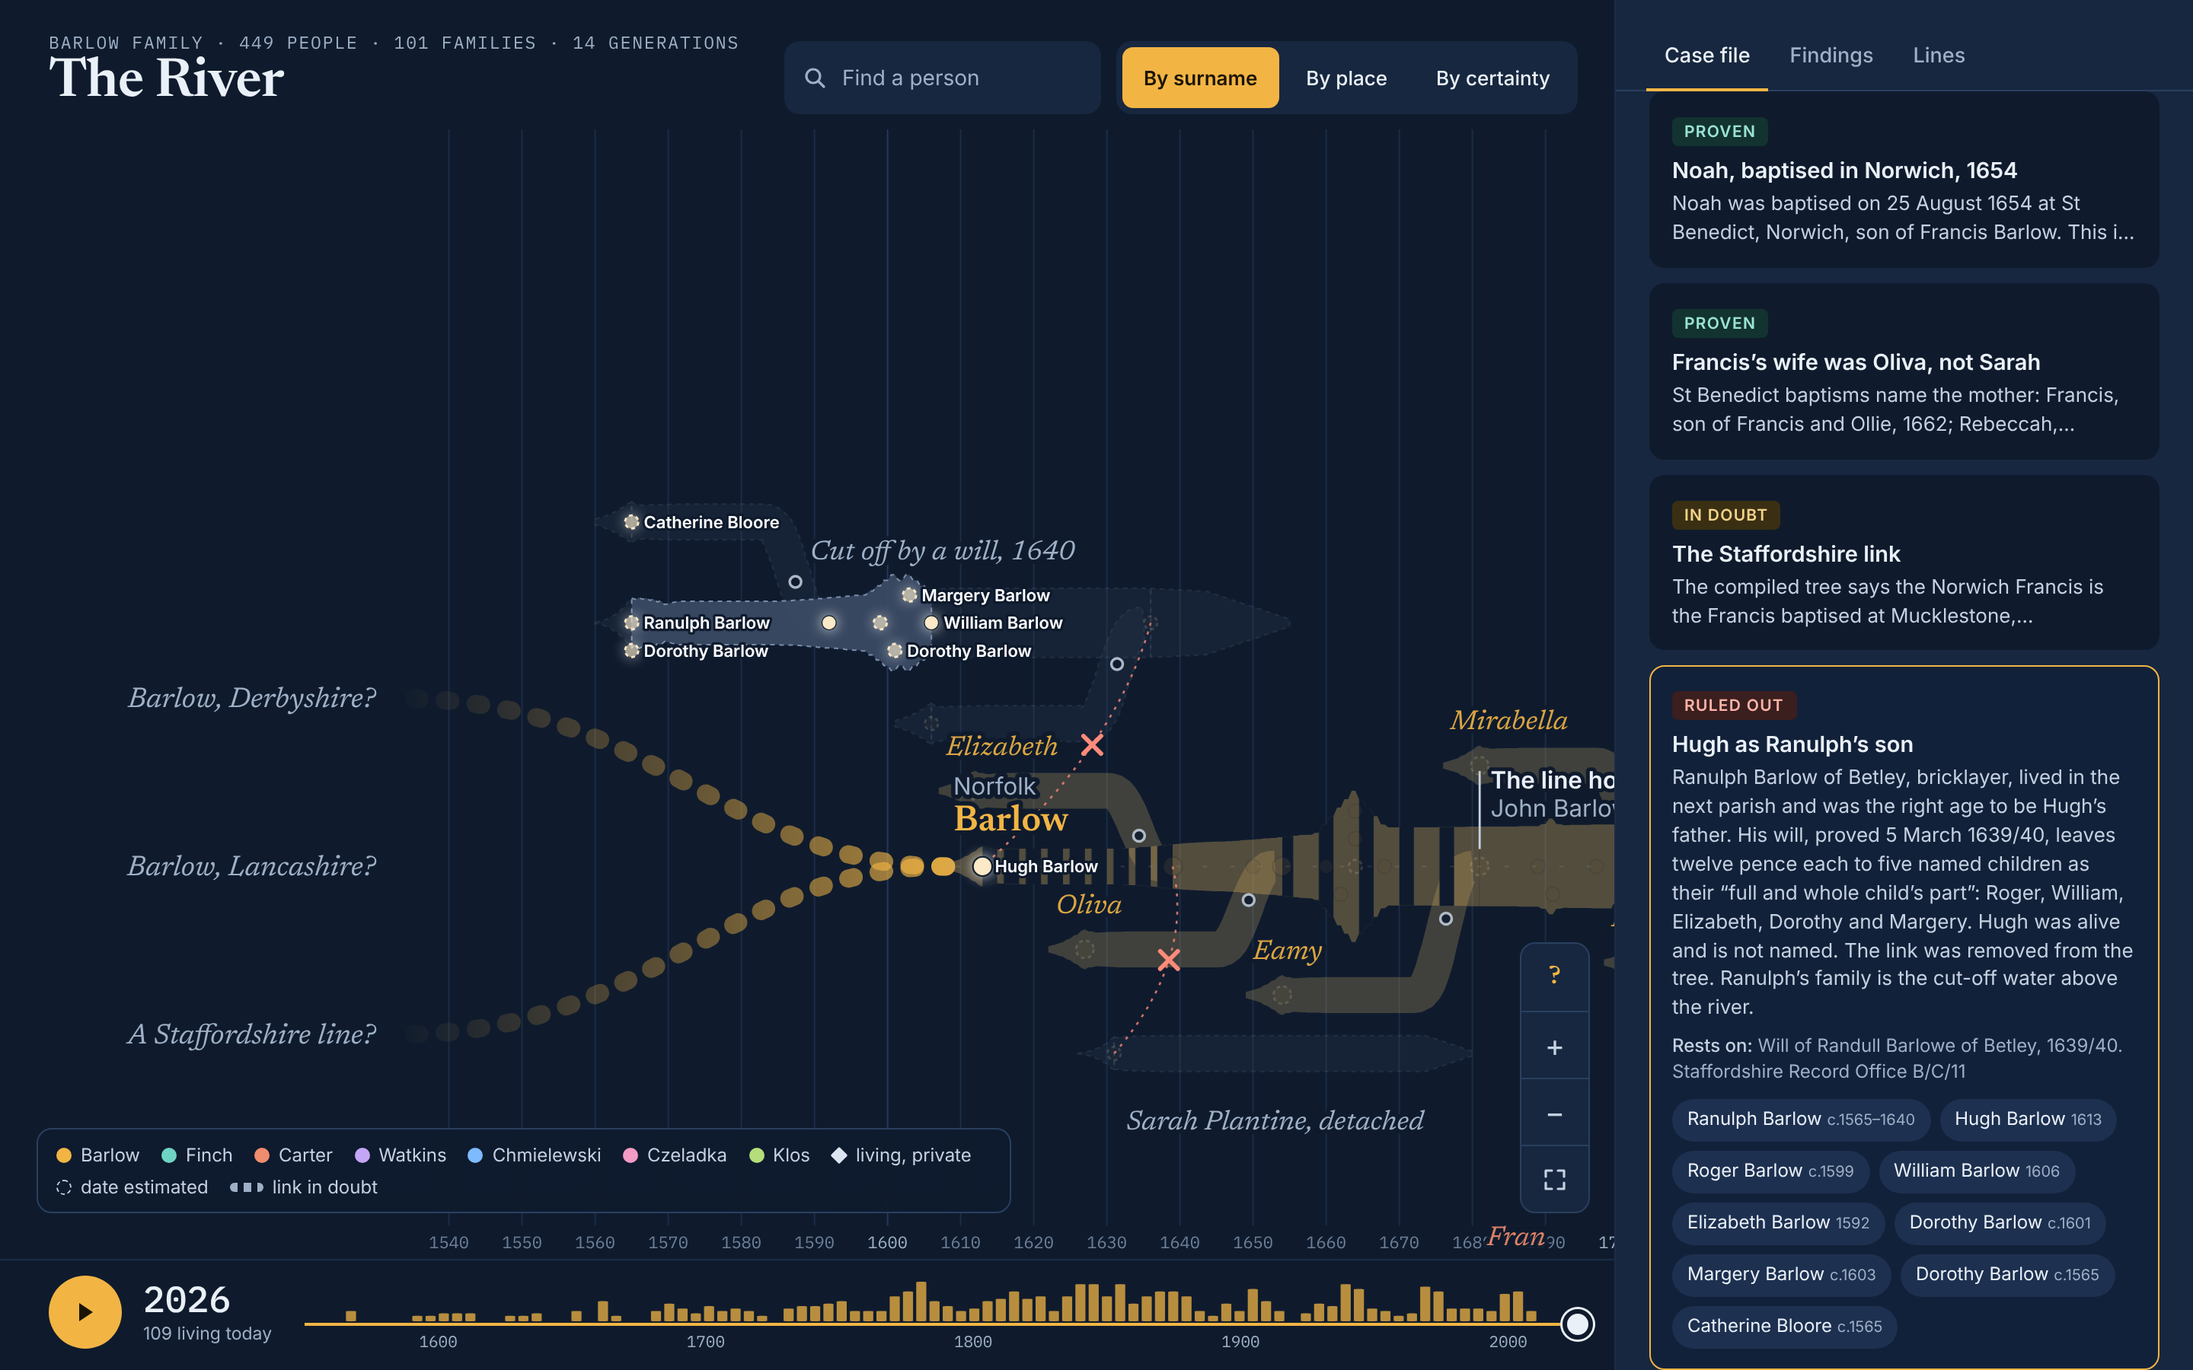
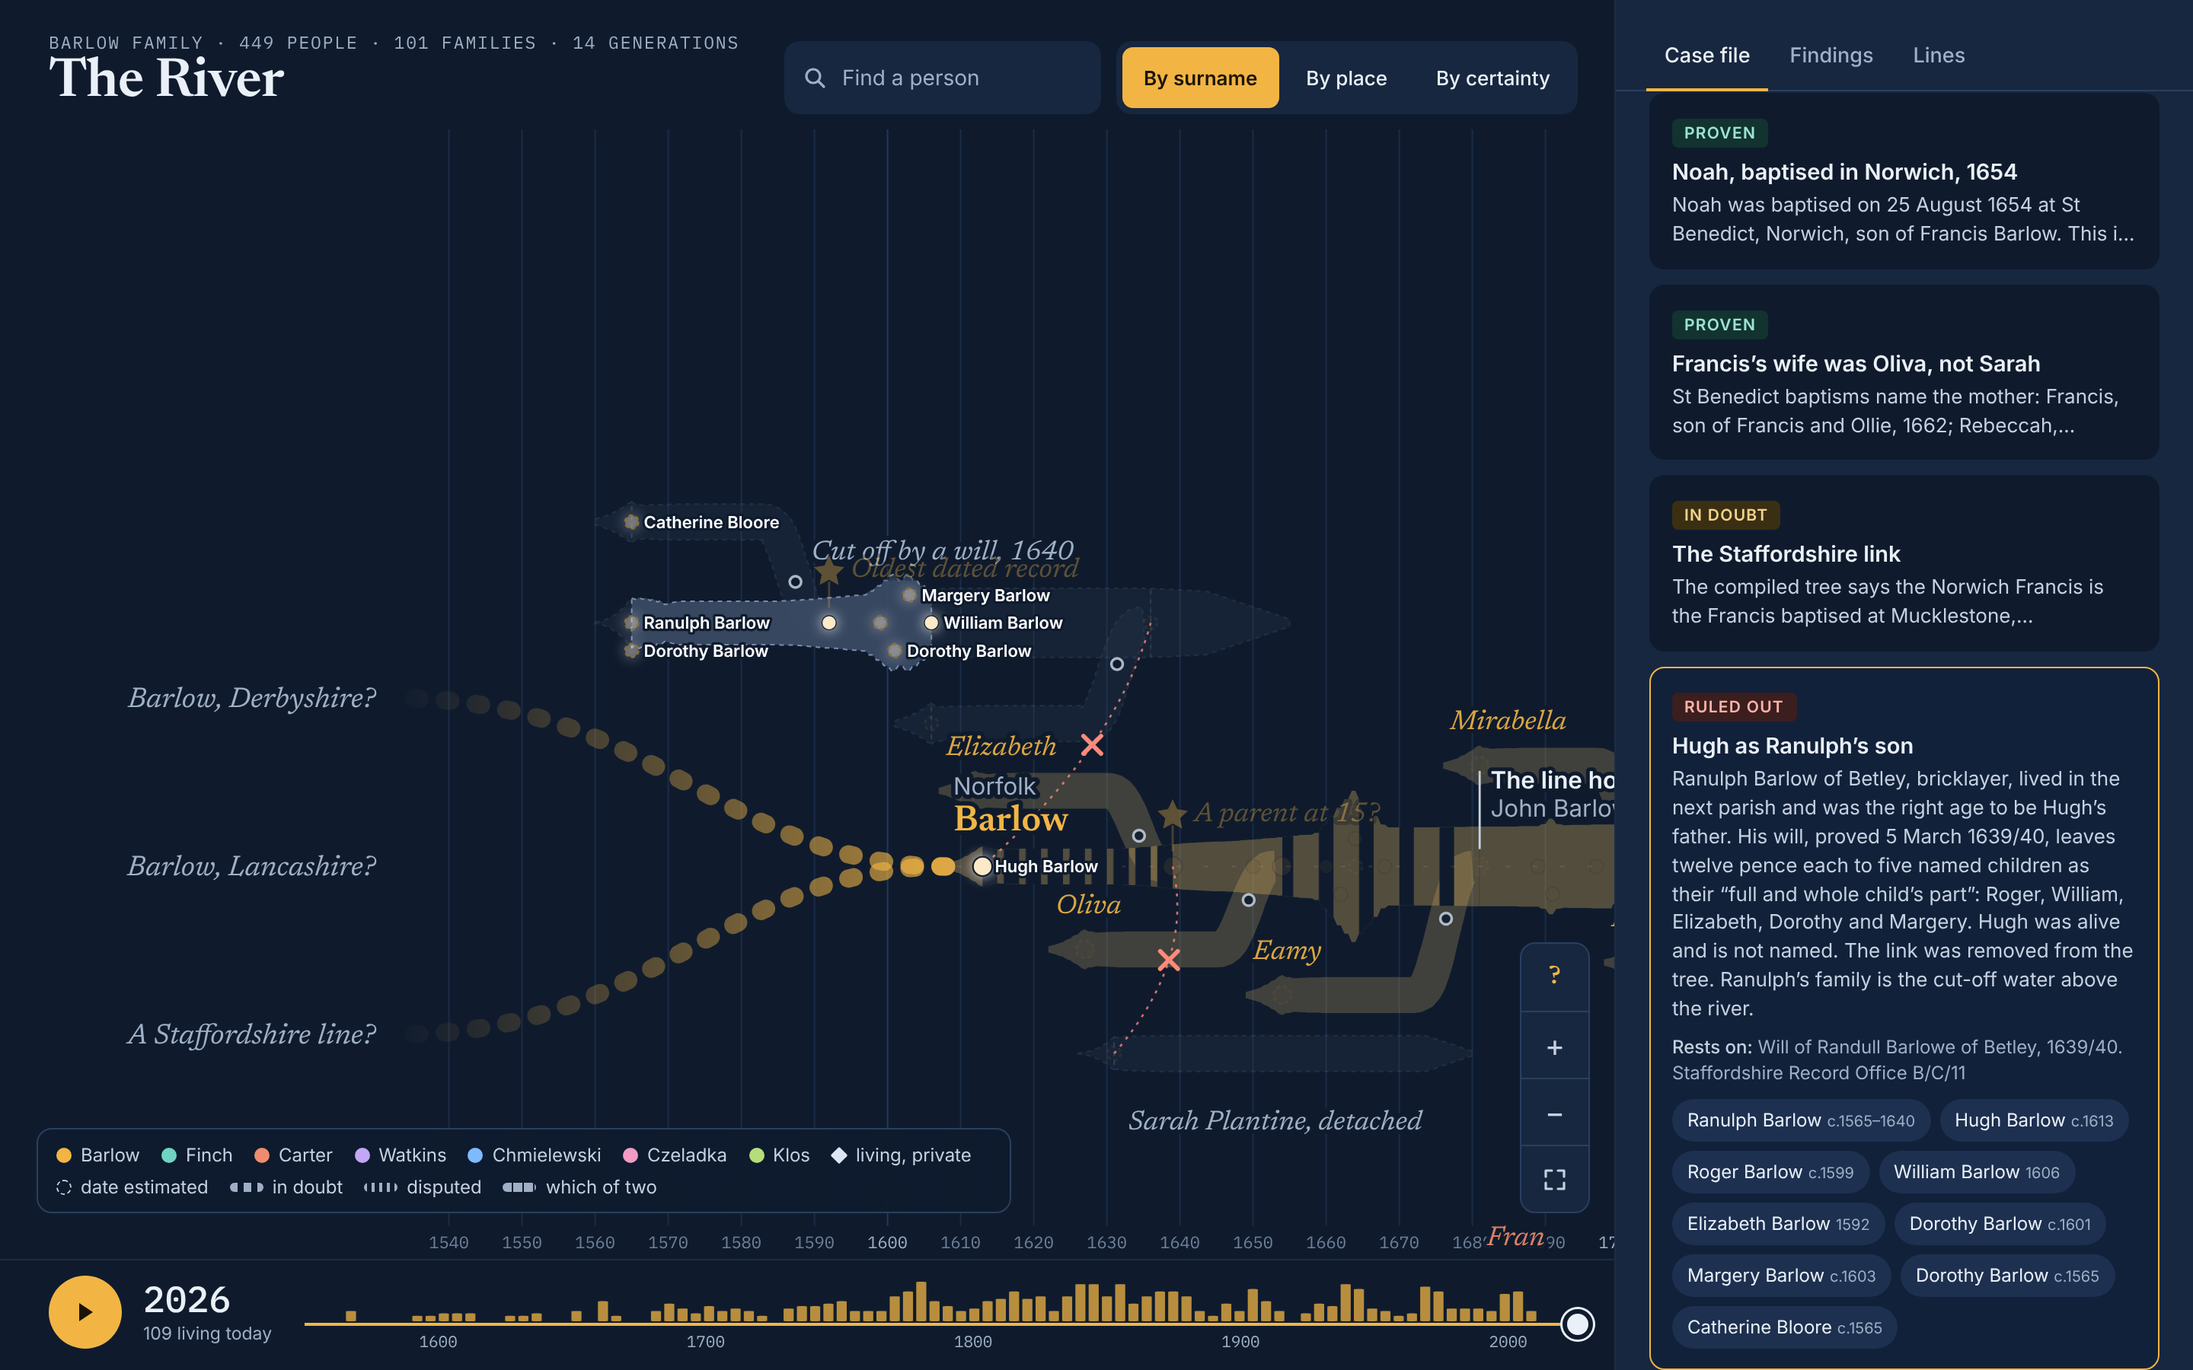
Final Council round: star place-bound findings on the river
Also keeps all four Council reports, stops a running camera move from
overriding an instant fit, and makes the browser test always stop its
own server.

Claude-Session: https://claude.ai/code/session_01LrNCnbRM2Q9T9wn5hEJQnR

diff --git a/src/main.ts b/src/main.ts
@@ -102,6 +102,7 @@ async function boot() {
     onHeadwater: () => { if (!state.composing) openCard('origin'); },
     onOxbow: (s) => { if (state.composing) return; const card = cardForStream(s); if (card) { state.card = null; openCard(card.id); } else focusIds(s.members); },
     onStep: stepPerson,
+    onFinding: (id) => { if (state.composing) return; stopWalk(); state.lead = null; state.tab = 'leads'; openLead(id); openSheet(true); document.querySelector('.card.on')?.scrollIntoView({ block: 'nearest' }); },
     onConfluence: (fid) => { if (state.composing) return; stopWalk(); openRecord({ kind: 'family', id: fid }); },
   });
 
@@ -118,6 +119,12 @@ async function boot() {
   }
   const head = proofHeadPerson();
   if (head) river.markProofHead(head.id, `The line holds to here\n${head.name}, ${head.b?.est ? 'c. ' : ''}${head.b?.y}`);
+
+  // findings that belong to one place are marked on the river itself
+  const MARKS: Record<string, string> = { 'fact:first-nz': 'First born in New Zealand', 'fact:earliest': 'Oldest dated record', 'fact:largest': 'The biggest family', 'fact:longest': 'The longest life' };
+  for (const f of data.facts) if (MARKS[f.id]) river.markFinding(f.people[0], f.id, MARKS[f.id]);
+  const odd = data.leads.find((l) => l.kind === 'young-parent');
+  if (odd) river.markFinding(odd.people[0], odd.id, 'A parent at ' + (odd.title.match(/\d+$/)?.[0] ?? 'an impossible age') + '?');
 
   bindChrome();
   buildSpark();
@@ -981,6 +988,7 @@ function showHelp() {
     <p><b>Diamonds are the living.</b> ${c.living} of the ${c.people} people in the tree are alive. They have no name, date or place here.</p>
     <p><b>Broken water is doubt.</b> Solid water is a link nobody questions. Whether it cites a source is what the certainty lens shows. Dashed water is a link the tree itself calls a hypothesis. Dotted water is disputed. Finely scored water is a doubt that does not break the line. The flag marks how far up the Barlow stream the evidence runs without a break.</p>
     <p><b>The lake is a dead end.</b> A family once thought to be ancestors, cut off when a will ruled them out. The three dotted springs at the far left are guesses at where the name came from.</p>
+    <p><b>Stars are findings.</b> A star above a light marks something the tree shows when you count: the first of the family born in New Zealand, the biggest family, the oldest record. Tap one to read it.</p>
     <p><b>Some dates are guesses.</b> ${data.people.filter((p) => !p.living && p.d?.est).length} people have no recorded death. Their light goes out seventy years after birth. Their record says “not recorded”.</p>
     <h3>Things to try</h3>
     <p>Tap any light for the person’s record, then “Follow the water”. “Related to…” tells you how any two people are connected. Switch the lens to see where people lived, or how well each link is sourced. Open a card in the case file. Zoom in to see names.</p>

diff --git a/src/river.ts b/src/river.ts
@@ -43,6 +43,7 @@ export interface RiverEvents {
   onHeadwater: () => void;
   onOxbow: (s: Stream) => void;
   onConfluence: (famId: string) => void;
+  onFinding: (leadId: string) => void;
   /** keyboard: step to the next or previous person */
   onStep: (dir: number) => void;
 }
@@ -300,6 +301,22 @@ export class River {
     this.streamLabels.push({ el: lg, x: cx, y: cy + (above ? -hw - 8 : hw + 16), w: label.length * 6.4, minor: true, kind: 'ox' });
   }
 
+  /** A small marker above a person for a finding that belongs to one place on the river. */
+  markFinding(personId: string, leadId: string, label: string) {
+    const sp = this.L.spots.get(personId);
+    if (!sp) return;
+    const g = el('g', { class: 'finding', transform: `translate(${f1(sp.x)} ${f1(sp.y)})`, 'data-find': leadId });
+    this.world.insertBefore(g, this.world.querySelector('.people'));
+    const inner = el('g', { class: 'ls' }, g);
+    el('path', { d: 'M0 -7V-19', class: 'fstem' }, inner);
+    el('circle', { cx: 0, cy: -24, r: 11, class: 'hit' }, inner);
+    el('path', { d: 'M0 -31L2.1 -26.4L7 -25.6L3.4 -22.2L4.4 -17.4L0 -19.8L-4.4 -17.4L-3.4 -22.2L-7 -25.6L-2.1 -26.4Z', class: 'fstar' }, inner);
+    const t = el('text', { class: 'ftext', x: 10, y: -21 }, inner);
+    t.textContent = label;
+    g.addEventListener('click', (e) => { e.stopPropagation(); this.ev.onFinding(leadId); });
+    this.labelEls.push({ el: g, year: sp.year });
+  }
+
   /** A flag on the trunk where unbroken evidence ends. */
   markProofHead(id: string, text: string) {
     const sp = this.L.spots.get(id);
@@ -489,7 +506,7 @@ export class River {
     const v = this.fitView();
     this.fitK = v.k;
     this.follow = this.narrow;
-    if (animate) this.flyTo(v.k, v.tx, v.ty); else { this.k = v.k; this.tx = v.tx; this.ty = v.ty; this.apply(); }
+    if (animate) this.flyTo(v.k, v.tx, v.ty); else { cancelAnimationFrame(this.anim); this.k = v.k; this.tx = v.tx; this.ty = v.ty; this.apply(); }
   }
   get isFit() { return Math.abs(this.k - this.fitK) < 0.002 || this.autoCam; }
   zoomBy(f: number, cx = (this.w - this.inset.right) / 2, cy = (this.h - this.inset.bottom) / 2) {
@@ -735,7 +752,9 @@ export class River {
         const conf = nearConf(p, 8);
         this.ev.onHover(null, 0, 0);
         const who = pick(p, g, e.pointerType === 'mouse' ? 14 : 20);
-        if (conf.fam && conf.dist < dot.dist) this.ev.onConfluence(conf.fam);
+        const mark = hit?.closest?.('.finding') as SVGGElement | null;
+        if (mark) this.ev.onFinding(mark.dataset.find!);
+        else if (conf.fam && conf.dist < dot.dist) this.ev.onConfluence(conf.fam);
         else if (who) this.ev.onSelect(who);
         else {
           const other = hit?.closest?.('.conf') ?? hit?.closest?.('.oxbow-mark') ?? hit?.closest?.('.slabel') ?? hit?.closest?.('.headwaters') ?? hit?.closest?.('.stream');

diff --git a/src/style.css b/src/style.css
@@ -132,6 +132,15 @@ body.kbd #river:focus { outline: 2px solid var(--amber); outline-offset: -2px; }
 .oxbow-mark:hover .oxlabel text { fill: #FFB4A8; }
 .severed { fill: none; stroke: #FF8A7A; stroke-width: 1.3; stroke-dasharray: 2 4; vector-effect: non-scaling-stroke; opacity: .8; }
 .severed-x { stroke: #FF8A7A; stroke-width: 2; stroke-linecap: round; fill: none; }
+.finding { cursor: pointer; transition: opacity .5s; }
+.finding.future { opacity: 0; pointer-events: none; }
+.fstem { stroke: var(--amber); stroke-width: 1; opacity: .7; }
+.fstar { fill: var(--amber); stroke: var(--bg); stroke-width: 1.2; paint-order: stroke; }
+.finding:hover .fstar { fill: #fff; }
+.ftext { font: italic 400 12.5px var(--serif); fill: var(--amber); paint-order: stroke; stroke: var(--bg); stroke-width: 3.5px; stroke-linejoin: round; display: none; }
+.zoom-mid .ftext, .finding:hover .ftext { display: block; }
+.zoom-far .finding { display: none; }
+.world.focus .finding { opacity: .35; }
 .proofhead { pointer-events: none; transition: opacity .5s; }
 .flagpole { stroke: var(--ink-2); stroke-width: 1; }
 .flagtext { font: 600 11px var(--sans); fill: var(--ink); paint-order: stroke; stroke: var(--bg); stroke-width: 3.5px; stroke-linejoin: round; }

diff --git a/.campaign/council-report.md b/.campaign/council-report.md
@@ -5,43 +5,44 @@ council-type: standalone
 
 # Council Report
 
-Third round, on the iterated build. Earlier rounds: `council-report-plan.md` (before the build) and `council-report-post-build.md`.
+Fourth and final round. Earlier rounds: `council-report-plan.md`, `council-report-post-build.md`, `council-report-round-3.md`.
 
 ## Animal Perspectives
 
 ### Bear — Vision & Direction
-- All five changes from the post-build review are in and working: pull-back camera, findings, reading guide, one-command verify with CI, reports kept.
-- The pull-back moved Dynamic, the brief's weak score, from 3 to 5 in the outside reviewer's hands.
-- Novel is a 4, not the 5 given last round. The model is new; the parts around it are familiar.
+- The build shows time and doubt, and now also answers what a relative asks: who was this, how am I connected, how sure are we. "What rests on this link" is the brief's idea in one sentence on the link it concerns.
+- Life in sentences lifted the thin records. Interesting 5. Novel 5.
 
 ### Cat — Risk & Scope
-- The case text now separates "not in doubt" from "proven" and counts the trunk ancestors with no source. An outside finding the Council missed.
-- Last round's 33 was generous: it was given to a build with a dead Edit button and a lost year line. Both fixed, both now checked in the browser test.
-- Not settled by any test here: photos against the real image host, and whether the visible shape of the tree is private enough. Both are the owner's.
-- Nothing blocks calling this done.
+- Surprising is a 4: most surprises sit in a tab; only one comes to you on the river.
+- "Very polished: yes, narrowly." Left unfixed: a record on a landscape phone leaves a sliver of river; people ahead of the year cannot be tapped.
+- Privacy scanned clean in three separate passes. The birth-order leak relative to a living sibling was closed.
+- A decision, not a defect: named, recently deceased, undated people drawn as alive until last year.
 
 ### Owl — Process & Structure
-- The review loop ran in full, twice. Browser checks rose from 33 to 46 as defects were fixed.
-- `src/main.ts` should be split before the next feature.
+- The requested loop ran in full, then three more rounds. Browser checks rose from 33 to 55, one per defect fixed.
+- New logic went into `src/model/kin.ts` with tests. `src/main.ts` should be split before the next feature.
+- Publishing runs only by hand. Correct.
 
 ### Puppy — Opportunities & Momentum
-- The New Zealand caption lands during play.
-- Cheap win left: findings that light many people should name the first few.
+- The pulse now travels on the trunk. Delightful 5.
+- Cheap answer to Cat: put place-bound findings on the river as markers.
 
 ### Rabbit — Resources & Stakeholders
-- The guide's claims were checked against the drawing by an outside tester. Every person is reachable by keyboard.
-- Owner still to do: hosting decision, and one look at a photo on a real connection.
+- The phone gets the full thing. Real photos load.
+- "Open in Iris" links point at the owner's test host. Owner's call.
 
 ### Wolf — Cohesion & Balance
-- Interesting is a 4 because most people outside the Barlow trunk are a name and a compiled-tree citation. The page says so (14% cite a record).
+- Every line gets attention through its people. The landscape phone is the one weak surface, not worth holding for.
 
 ## Consensus
 
-All five requested changes are done and independently confirmed. The Council adopts the independent scores: Interesting 4, Novel 4, Surprising 4, Delightful 4, Engaging 5, Interactive 4, Dynamic 5. Total 30 of 35. The remaining gap on Interesting and Surprising is the data, not the build. Nothing in the build stands between this and done.
+Scores: Interesting 5, Novel 5, Surprising 4, Delightful 5, Engaging 5, Interactive 5, Dynamic 5. Total 34 of 35, against 31 for the concept. Done against the brief: all five interactions, all four rules. Against the bar: useful, delightful and novel without reservation; fully working, confirmed twice from outside; very polished, narrowly.
+
+Owner's decisions, not the build's: whether to publish given the tree's shape shows; whether recently deceased, undated people should appear; whether public links to Iris should point at the test host.
 
 ## Recommended Next Steps
 
-1. Name the first few people on findings that light many.
-2. Keep all three reports.
-3. Owner: check a photo on a real connection, then decide on hosting.
-4. Split `src/main.ts` before adding another feature.
+1. Put place-bound findings on the river as markers.
+2. Keep all four reports.
+3. Split `src/main.ts` before the next feature.

diff --git a/.campaign/council-report-round-3.md b/.campaign/council-report-round-3.md
@@ -1,0 +1,47 @@
+---
+created: 2026-11-18
+council-type: standalone
+---
+
+# Council Report
+
+Third round, on the iterated build. Earlier rounds: `council-report-plan.md` (before the build) and `council-report-post-build.md`.
+
+## Animal Perspectives
+
+### Bear — Vision & Direction
+- All five changes from the post-build review are in and working: pull-back camera, findings, reading guide, one-command verify with CI, reports kept.
+- The pull-back moved Dynamic, the brief's weak score, from 3 to 5 in the outside reviewer's hands.
+- Novel is a 4, not the 5 given last round. The model is new; the parts around it are familiar.
+
+### Cat — Risk & Scope
+- The case text now separates "not in doubt" from "proven" and counts the trunk ancestors with no source. An outside finding the Council missed.
+- Last round's 33 was generous: it was given to a build with a dead Edit button and a lost year line. Both fixed, both now checked in the browser test.
+- Not settled by any test here: photos against the real image host, and whether the visible shape of the tree is private enough. Both are the owner's.
+- Nothing blocks calling this done.
+
+### Owl — Process & Structure
+- The review loop ran in full, twice. Browser checks rose from 33 to 46 as defects were fixed.
+- `src/main.ts` should be split before the next feature.
+
+### Puppy — Opportunities & Momentum
+- The New Zealand caption lands during play.
+- Cheap win left: findings that light many people should name the first few.
+
+### Rabbit — Resources & Stakeholders
+- The guide's claims were checked against the drawing by an outside tester. Every person is reachable by keyboard.
+- Owner still to do: hosting decision, and one look at a photo on a real connection.
+
+### Wolf — Cohesion & Balance
+- Interesting is a 4 because most people outside the Barlow trunk are a name and a compiled-tree citation. The page says so (14% cite a record).
+
+## Consensus
+
+All five requested changes are done and independently confirmed. The Council adopts the independent scores: Interesting 4, Novel 4, Surprising 4, Delightful 4, Engaging 5, Interactive 4, Dynamic 5. Total 30 of 35. The remaining gap on Interesting and Surprising is the data, not the build. Nothing in the build stands between this and done.
+
+## Recommended Next Steps
+
+1. Name the first few people on findings that light many.
+2. Keep all three reports.
+3. Owner: check a photo on a real connection, then decide on hosting.
+4. Split `src/main.ts` before adding another feature.

diff --git a/README.md b/README.md
@@ -27,7 +27,7 @@ Then open the address it prints. `npm run build` writes a static site to `dist/`
    - **What rests on a link.** Every link to parents says how many ancestors depend on it. For a doubted link: "If this link is wrong, 2 people upstream, back to 1612, are not this family's."
 3. **Switch the lens.** By surname, by place, or by certainty (keys 1, 2, 3).
 4. **Open the case file.** Nine evidence cards, ruled out, in doubt or proven. Tapping one moves the river there and lights the people and the water it bears on. "Walk the evidence" steps through them upriver.
-5. **Read the findings.** Counted from the tree by rule. What it shows: the river reaches New Zealand in 1855, one couple had 14 children, 14% of people cite a record. And what is worth a second look: a parent who would have been 15, a name given twice in six families, people marked living in a generation born before 1921.
+5. **Read the findings.** Counted from the tree by rule, and the ones that belong to a place are starred on the river itself. What it shows: the river reaches New Zealand in 1855, one couple had 14 children, 14% of people cite a record. And what is worth a second look: a parent who would have been 15, a name given twice in six families, people marked living in a generation born before 1921.
 6. **Add a piece of evidence.** A draft card, saved in your browser only. It produces a change request to apply in Iris. The site never writes to the tree.
 
 Also: search by name (`/`), zoom and pan, deep links (the address bar carries the year, person, lens and card), and a short guide behind the `?` button.
